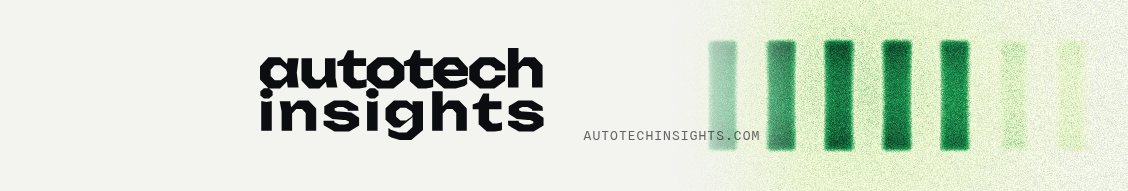
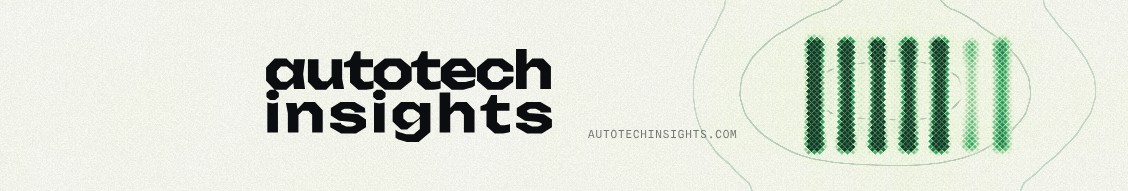
Rebuild the signal scan texture as a sensor screen with isotherms.
The scan now samples the heat field through a 45-degree diamond screen
and traces the halo with hairline isotherms, replacing blur plus grain.
Adds a layer anatomy block, isotherm read-outs, screen-drawn ramp
swatches and a Screen/Smooth toggle, and re-renders the ten
texture-bearing application pieces and three texture stills to match.

Claude-Session: https://claude.ai/code/session_01N9uR7imwXqJUC6zuiRqo7L

Changed region(s): [[0.2172, 0.0, 0.9619, 1.0], [0.8998, 0.9948, 0.9309, 1.0]]

diff --git a/brand/autotech-insights-guidelines/main.js b/brand/autotech-insights-guidelines/main.js
@@ -90,10 +90,21 @@ if (fw) {
   addEventListener('scroll', () => requestAnimationFrame(upd), { passive: true }); upd();
 }
 
+/* ---------- ramp swatches: the same 45 degree screen, drawn once on a 2D canvas ---------- */
+const STOPS = [[[11, 13, 16], [14, 59, 38], [31, 157, 85], [230, 244, 199], [.40, .74]], [[243, 243, 240], [230, 244, 199], [31, 157, 85], [14, 59, 38], [.34, .72]]];
+const rampCol = (mode, f) => { const [a, b, d, e, [s1, s2]] = STOPS[mode]; const mx = (p, q, t) => p.map((v, i) => Math.round(v + (q[i] - v) * t));
+  const c = f < s1 ? mx(a, b, f / s1) : f < s2 ? mx(b, d, (f - s1) / (s2 - s1)) : mx(d, e, (f - s2) / (1 - s2)); return 'rgb(' + c + ')'; };
+const drawRamp = cv => { const mode = +cv.dataset.ramp, r = cv.getBoundingClientRect(); if (!r.width) return; const dpr = Math.min(devicePixelRatio || 1, 2);
+  cv.width = Math.round(r.width * dpr); cv.height = Math.round(r.height * dpr); const x = cv.getContext('2d'), W = cv.width, H = cv.height, c = 5 * dpr * Math.SQRT2;
+  x.fillStyle = rampCol(mode, 0); x.fillRect(0, 0, W, H);
+  for (let j = -1; j * c / 2 < H + c; j++) for (let i = -1; i * c < W + c; i++) { const px = i * c + (j & 1) * c / 2, py = j * c / 2, v = Math.min(1, Math.max(0, px / W));
+    const h = c / 2 * Math.sqrt(Math.pow(v, .85)) * 1.02; if (h < .3) continue; x.fillStyle = rampCol(mode, Math.min(1, v * .96 + .04)); x.beginPath(); x.moveTo(px, py - h); x.lineTo(px + h, py); x.lineTo(px, py + h); x.lineTo(px - h, py); x.fill(); } };
+$$('canvas[data-ramp]').forEach(cv => { drawRamp(cv); new ResizeObserver(() => drawRamp(cv)).observe(cv); });
+
 /* ---------- WebGL signal scan ---------- */
 const VS = `attribute vec2 p;varying vec2 v;void main(){v=p*.5+.5;gl_Position=vec4(p,0.,1.);}`;
 const FS = `precision highp float;varying vec2 v;
-uniform sampler2D uN,uF;uniform vec2 uR,uNs,uFs,uM;uniform float uT,uMA,uMode,uG,uH,uBand;
+uniform sampler2D uN,uF,uW;uniform vec2 uR,uNs,uFs,uWs,uM;uniform float uT,uMA,uMode,uG,uH,uBand,uStyle,uCell,uLayer;
 float h(vec2 p){return fract(sin(dot(p,vec2(12.9898,78.233)))*43758.5453);}
 float n2(vec2 p){vec2 i=floor(p),f=fract(p);f=f*f*(3.-2.*f);return mix(mix(h(i),h(i+vec2(1,0)),f.x),mix(h(i+vec2(0,1)),h(i+vec2(1,1)),f.x),f.y);}
 float bl(sampler2D t,vec2 u,vec2 px){float s=0.;for(int i=-1;i<=1;i++)for(int j=-1;j<=1;j++){float w=(i==0&&j==0)?4.:(i==0||j==0)?2.:1.;s+=w*texture2D(t,u+vec2(float(i),float(j))*px).r;}return s/16.;}
@@ -103,30 +114,53 @@ vec3 ramp(float f){
   if(f<.40)return mix(a,b,f/.40); if(f<.74)return mix(b,d,(f-.40)/.34); return mix(d,e,(f-.74)/.26);}
  vec3 a=c(243.,243.,240.),b=c(230.,244.,199.),d=c(31.,157.,85.),e=c(14.,59.,38.);
  if(f<.34)return mix(a,b,f/.34); if(f<.72)return mix(b,d,(f-.34)/.38); return mix(d,e,(f-.72)/.28);}
-void main(){
- vec2 u=vec2(v.x,1.-v.y); float asp=uR.x/uR.y; vec2 q=vec2(u.x*asp,u.y);
+float gNear,gHalo;
+float heat(vec2 u){
+ float asp=uR.x/uR.y; vec2 q=vec2(u.x*asp,u.y);
  float near=bl(uN,u,1.4/uNs); float far=bl(uF,u,1.5/uFs); float vfar=bl(uF,u,5./uFs);
  float amb=n2(q*2.2+vec2(uT*.03,-uT*.02))*.6+n2(q*5.3-vec2(uT*.025,uT*.04))*.4;
- float rim=clamp(near-far*.85,0.,1.)*1.9;
+ float rim=clamp(near-far*.85,0.,1.)*1.9; float wide=bl(uW,u,1.2/uWs); gNear=near; gHalo=wide;
  vec2 m=vec2(uM.x*asp,uM.y); float d=distance(q,m); float glow=exp(-d*d/.045)*uMA;
  float bx=fract(uT*.045)*1.8-.4; float band=exp(-pow((u.x-bx-(u.y-.5)*.25)*7.,2.))*uBand;
- float f=.02+.11*uH*amb+.34*vfar-.06*near+.78*rim+(.30*glow+.16*band)*(.35+far*1.4)+.10*glow*uH;
- f+=(h(gl_FragCoord.xy+fract(uT*7.)*91.)-.5)*uG*2.;
- vec3 col=ramp(clamp(f,0.,1.))*(1.+(h(gl_FragCoord.xy*1.37+fract(uT*3.))-.5)*.07);
- gl_FragColor=vec4(col,1.);}`;
-let MARKS = null;
-const marksP = fetch('img/marks.json').then(r => r.json()).then(m => (MARKS = m));
+ return .02+.11*uH*amb+.30*vfar+.17*wide-.06*near+.78*rim+(.30*glow+.16*band)*(.35+far*1.4)+.10*glow*uH;}
+void main(){
+ vec2 u=vec2(v.x,1.-v.y); float f=heat(u); float nearv=gNear,halo=gHalo;
+ float gr=h(gl_FragCoord.xy*1.37+fract(uT*3.))-.5;
+ if(uStyle<.5){
+  f+=(h(gl_FragCoord.xy+fract(uT*7.)*91.)-.5)*uG*2.;
+  gl_FragColor=vec4(ramp(clamp(f,0.,1.))*(1.+gr*.07),1.); return;}
+ vec2 px=vec2(gl_FragCoord.x,uR.y-gl_FragCoord.y);
+ const float s=.70710678; mat2 R=mat2(s,-s,s,s); mat2 Ri=mat2(s,s,-s,s);
+ vec2 g=R*px/uCell; vec2 id=floor(g); vec2 cc=fract(g)-.5;
+ float fc=clamp(heat((Ri*((id+.5)*uCell))/uR),0.,1.);
+ float r=.53*sqrt(pow(clamp((fc-.022)/.74,0.,1.),.85));
+ float aa=1.1/uCell; float dotm=1.-smoothstep(r-aa,r+aa,max(abs(cc.x),abs(cc.y)));
+ vec3 bg=ramp(clamp(f*.40,0.,1.)); vec3 fg=ramp(clamp(fc*1.04+.19,0.,1.));
+ if(uLayer>1.5)bg=ramp(0.);
+ vec3 col=(uLayer>.5&&uLayer<1.5)?ramp(clamp(f*.62,0.,1.)):mix(bg,fg,dotm);
+#ifdef ISO
+ if(uLayer<1.5){float w=fwidth(halo)*.8+1e-5; float iso=0.;
+  iso=max(iso,1.-smoothstep(.5,1.,abs(halo-.52)/w));
+  iso=max(iso,(1.-smoothstep(.5,1.,abs(halo-.30)/w))*.85);
+  iso=max(iso,(1.-smoothstep(.5,1.,abs(halo-.14)/w))*.7);
+  iso=max(iso,(1.-smoothstep(.5,1.,abs(halo-.045)/w))*.55);
+  float off=1.-smoothstep(.02,.25,nearv);
+  col=mix(col,ramp(.93),iso*off*(uLayer>.5?.6:.34));}
+#endif
+ gl_FragColor=vec4(col*(1.+gr*(.025+uG*.55)),1.);}`;
+let MARKS = null; let ScanClass = null;
+const marksP = fetch('img/marks.json').then(r => r.json()).then(m => (MARKS = Object.assign(m, { bar: { b: [0, 0, 10, 100], d: 'M0 0H10V100H0Z' }, chev: { b: [0, 0, 60, 100], d: 'M0 0L22 0L60 50L22 100L0 100L38 50Z' } })));
 
 class Scan {
   constructor(cv, o) {
-    this.cv = cv; this.o = Object.assign({ mode: 0, grain: .06, heat: .55, band: 1 }, o);
-    const gl = cv.getContext('webgl', { antialias: false, premultipliedAlpha: false, preserveDrawingBuffer: true }); if (!gl) throw 0; this.gl = gl;
+    this.cv = cv; this.o = Object.assign({ mode: 0, grain: .06, heat: .55, band: 1, style: 1, cell: 5, layer: 0 }, o);
+    const gl = cv.getContext('webgl', { antialias: false, premultipliedAlpha: false, preserveDrawingBuffer: true }); if (!gl) throw 0; this.gl = gl; this.ext = gl.getExtension('OES_standard_derivatives');
     const sh = (t, s) => { const x = gl.createShader(t); gl.shaderSource(x, s); gl.compileShader(x); if (!gl.getShaderParameter(x, gl.COMPILE_STATUS)) throw gl.getShaderInfoLog(x); return x; };
-    const pr = gl.createProgram(); gl.attachShader(pr, sh(gl.VERTEX_SHADER, VS)); gl.attachShader(pr, sh(gl.FRAGMENT_SHADER, FS)); gl.linkProgram(pr); gl.useProgram(pr); this.pr = pr;
+    const pr = gl.createProgram(); gl.attachShader(pr, sh(gl.VERTEX_SHADER, VS)); gl.attachShader(pr, sh(gl.FRAGMENT_SHADER, (this.ext ? '#extension GL_OES_standard_derivatives : enable\n#define ISO\n' : '') + FS)); gl.linkProgram(pr); gl.useProgram(pr); this.pr = pr;
     const b = gl.createBuffer(); gl.bindBuffer(gl.ARRAY_BUFFER, b); gl.bufferData(gl.ARRAY_BUFFER, new Float32Array([-1, -1, 1, -1, -1, 1, 1, 1]), gl.STATIC_DRAW);
     const loc = gl.getAttribLocation(pr, 'p'); gl.enableVertexAttribArray(loc); gl.vertexAttribPointer(loc, 2, gl.FLOAT, false, 0, 0);
-    this.U = {}; ['uN', 'uF', 'uR', 'uNs', 'uFs', 'uM', 'uT', 'uMA', 'uMode', 'uG', 'uH', 'uBand'].forEach(k => this.U[k] = gl.getUniformLocation(pr, k));
-    this.tN = this.tex(); this.tF = this.tex();
+    this.U = {}; ['uN', 'uF', 'uW', 'uR', 'uNs', 'uFs', 'uWs', 'uM', 'uT', 'uMA', 'uMode', 'uG', 'uH', 'uBand', 'uStyle', 'uCell', 'uLayer'].forEach(k => this.U[k] = gl.getUniformLocation(pr, k));
+    this.tN = this.tex(); this.tF = this.tex(); this.tW = this.tex();
     this.m = [.7, .5]; this.mt = [.7, .5]; this.ma = 0; this.mat = 0; this.t = 0; this.vis = false;
     const pm = e => { const r = cv.getBoundingClientRect(); this.mt = [(e.clientX - r.left) / r.width, (e.clientY - r.top) / r.height]; this.mat = 1; if (reduced()) this.frame(); };
     (o.track || cv).addEventListener('pointermove', pm, { passive: true });
@@ -145,21 +179,26 @@ class Scan {
     const draw = (k) => { const s = Math.max(8, Math.round(W / k)), sh = Math.max(8, Math.round(H / k)); const c = document.createElement('canvas'); c.width = s; c.height = sh; const x = c.getContext('2d');
       x.fillStyle = '#000'; x.fillRect(0, 0, s, sh); x.fillStyle = '#fff';
       for (const p of this.o.place(W, H)) { const mk = MARKS[p.mark]; const [x0, y0, x1, y1] = mk.b; const sc = p.w / (x1 - x0) / k;
-        x.save(); x.translate(p.x / k, p.y / k); x.scale(sc, sc); x.translate(-x0, -y0); x.fill(new Path2D(mk.d)); x.restore(); }
+        x.save(); x.globalAlpha = p.a == null ? 1 : p.a; x.translate(p.x / k, p.y / k); x.scale(sc, sc); x.translate(-x0, -y0); x.fill(new Path2D(mk.d)); x.restore(); }
       return c; };
-    const n = draw(4), f = draw(18);
+    const n = draw(3), f = draw(18);
     gl.pixelStorei(gl.UNPACK_FLIP_Y_WEBGL, false);
     gl.activeTexture(gl.TEXTURE0); gl.bindTexture(gl.TEXTURE_2D, this.tN); gl.texImage2D(gl.TEXTURE_2D, 0, gl.RGBA, gl.RGBA, gl.UNSIGNED_BYTE, n);
     gl.activeTexture(gl.TEXTURE1); gl.bindTexture(gl.TEXTURE_2D, this.tF); gl.texImage2D(gl.TEXTURE_2D, 0, gl.RGBA, gl.RGBA, gl.UNSIGNED_BYTE, f);
-    this.ns = [n.width, n.height]; this.fs = [f.width, f.height];
+    /* a wide, smooth halo field: shrink the far mask twice, then grow it back in steps */
+    const rs = (src, w, h) => { const c = document.createElement('canvas'); c.width = Math.max(4, Math.round(w)); c.height = Math.max(4, Math.round(h)); const x = c.getContext('2d'); x.imageSmoothingEnabled = true; x.imageSmoothingQuality = 'high'; x.fillStyle = '#000'; x.fillRect(0, 0, c.width, c.height); x.drawImage(src, 0, 0, c.width, c.height); return c; };
+    let wd = rs(rs(rs(f, f.width / 2, f.height / 2), f.width / 4, f.height / 4), f.width / 7, f.height / 7);
+    wd = rs(rs(rs(wd, f.width / 4, f.height / 4), f.width / 2, f.height / 2), f.width, f.height);
+    gl.activeTexture(gl.TEXTURE2); gl.bindTexture(gl.TEXTURE_2D, this.tW); gl.texImage2D(gl.TEXTURE_2D, 0, gl.RGBA, gl.RGBA, gl.UNSIGNED_BYTE, wd);
+    this.ns = [n.width, n.height]; this.fs = [f.width, f.height]; this.ws = [wd.width, wd.height]; this.wd = wd; this.o.onMasks && this.o.onMasks(this);
   }
   frame() {
     const gl = this.gl, U = this.U; if (!this.ns) return;
     gl.viewport(0, 0, this.cv.width, this.cv.height);
-    gl.uniform1i(U.uN, 0); gl.uniform1i(U.uF, 1);
+    gl.uniform1i(U.uN, 0); gl.uniform1i(U.uF, 1); gl.uniform1i(U.uW, 2); gl.uniform2fv(U.uWs, this.ws);
     gl.uniform2f(U.uR, this.cv.width, this.cv.height); gl.uniform2fv(U.uNs, this.ns); gl.uniform2fv(U.uFs, this.fs);
     gl.uniform2fv(U.uM, this.m); gl.uniform1f(U.uMA, this.ma); gl.uniform1f(U.uT, this.t);
-    gl.uniform1f(U.uMode, this.o.mode); gl.uniform1f(U.uG, this.o.grain); gl.uniform1f(U.uH, this.o.heat); gl.uniform1f(U.uBand, reduced() ? 0 : this.o.band);
+    gl.uniform1f(U.uMode, this.o.mode); gl.uniform1f(U.uG, this.o.grain); gl.uniform1f(U.uH, this.o.heat); gl.uniform1f(U.uBand, reduced() ? 0 : this.o.band); gl.uniform1f(U.uStyle, this.o.style); gl.uniform1f(U.uCell, this.o.cell * this.cv.width / this.W); gl.uniform1f(U.uLayer, this.o.layer);
     gl.drawArrays(gl.TRIANGLE_STRIP, 0, 4);
   }
   loop() {
@@ -179,6 +218,8 @@ class Scan {
   set(o) { Object.assign(this.o, o); this.masks(); this.frame(); }
 }
 
+window.ATIScan = { ready: marksP, get Scan() { return ScanClass; }, get MARKS() { return MARKS; } };
+ScanClass = Scan;
 marksP.then(() => {
   try {
     const hero = $('#heroScan');
@@ -189,11 +230,17 @@ marksP.then(() => {
     const sc = $('#scanCanvas'); let mark = 'ati';
     const place = (W, H) => { const mk = MARKS[mark]; const [x0, y0, x1, y1] = mk.b; const ar = (y1 - y0) / (x1 - x0);
       let w = Math.min(W * (mark === 'jl' ? 0.42 : 0.74), H * 0.66 / ar); return [{ mark, w, x: (W - w) / 2, y: (H - w * ar) / 2 }]; };
-    const s = new Scan(sc, { place, heat: .55, grain: .06 }); s.resize();
+    /* isotherm read-outs: where the halo field crosses each level on the row through the middle */
+    const isoBox = $('#isoLabels');
+    const onMasks = t => { if (!isoBox || !t.wd) return; const w = t.wd.width, hh = t.wd.height, row = t.wd.getContext('2d').getImageData(0, Math.floor(hh / 2), w, 1).data;
+      isoBox.innerHTML = [.30, .14, .045].map(L => { let x = w - 1; while (x > 0 && row[x * 4] / 255 < L) x--; return x > 0 && x < w - 2 ? '<span style="left:' + ((x + .5) / w * 100).toFixed(2) + '%"><i></i>' + String(L).replace(/^0/, '') + '</span>' : ''; }).join(''); };
+    const s = new Scan(sc, { place, heat: .55, grain: .06, onMasks }); s.resize();
     const lab = $('#scanLabel'); let mode = 0;
-    const L = () => { lab.textContent = `${mark === 'wm' ? 'wordmark' : mark} · ${mode ? 'light' : 'dark'} ramp`; $('#scanStage').style.background = mode ? '#F3F3F0' : '#0B0D10'; $('#scanStage .hud').style.color = mode ? '#0B0D10' : '#fff'; };
+    const L = () => { if (isoBox) isoBox.dataset.mode = mode; lab.textContent = `${mark === 'wm' ? 'wordmark' : mark} · ${mode ? 'light' : 'dark'} ramp`; $('#scanStage').style.background = mode ? '#F3F3F0' : '#0B0D10'; $('#scanStage .hud').style.color = mode ? '#0B0D10' : '#fff'; };
     $$('[data-mark]').forEach(b => b.addEventListener('click', () => { mark = b.dataset.mark; $$('[data-mark]').forEach(x => x.setAttribute('aria-pressed', x === b)); s.set({}); L(); }));
     $$('[data-mode]').forEach(b => b.addEventListener('click', () => { mode = +b.dataset.mode; $$('[data-mode]').forEach(x => x.setAttribute('aria-pressed', x === b)); s.set({ mode }); L(); }));
+    $$('[data-style]').forEach(b => b.addEventListener('click', () => { $$('[data-style]').forEach(x => x.setAttribute('aria-pressed', x === b)); s.set({ style: +b.dataset.style }); }));
+    $$('canvas[data-layer]').forEach(cv => { const t = new Scan(cv, { layer: +cv.dataset.layer, band: 0, heat: .6, cell: 4, place: (W, H) => { const mk = MARKS.ati, ar = (mk.b[3] - mk.b[1]) / (mk.b[2] - mk.b[0]); const w = Math.min(W * .7, H * .56 / ar); return [{ mark: 'ati', w, x: (W - w) / 2, y: (H - w * ar) / 2 }]; } }); t.resize(); });
     $('#grainR')?.addEventListener('input', e => { s.o.grain = +e.target.value; s.frame(); });
     $('#heatR')?.addEventListener('input', e => { s.o.heat = +e.target.value; s.frame(); });
   } catch (e) { console.warn('WebGL scan unavailable', e); }

diff --git a/brand/autotech-insights-guidelines/index.html b/brand/autotech-insights-guidelines/index.html
@@ -150,21 +150,29 @@
 
 <section class="s dark" id="scan" data-n="05" data-t="Signal scan">
   <div class="wrap">
-    <header class="s-head grid"><p class="lab mono rv"><span class="n">05</span>Signal scan</p><h2 class="rv">Heat, read by a sensor.</h2><p class="intro rv rv-d1">The signature texture. A mark is read like a thermal scan: a rim of light on its edges, ambient heat around it and film grain over everything, mapped through one green ramp. Move the cursor across the stage.</p></header>
+    <header class="s-head grid"><p class="lab mono rv"><span class="n">05</span>Signal scan</p><h2 class="rv">Heat, read by a sensor.</h2><p class="intro rv rv-d1">The signature texture. A mark is read like a thermal scan: a rim of light on its edges and ambient heat around it, sampled through a 45° sensor grid and traced by isotherms, all mapped through one green ramp. Move the cursor across the stage.</p></header>
     <div class="scan-stage rv" id="scanStage"><canvas id="scanCanvas" aria-label="Interactive signal scan texture"></canvas>
+      <div class="iso mono tnum" id="isoLabels" aria-hidden="true"></div>
       <div class="hud mono"><span id="scanLabel">ati · dark ramp</span><span class="tnum" id="scanFps">Live</span></div></div>
     <div class="controls" role="group" aria-label="Scan controls">
       <div class="seg" role="group" aria-label="Mark"><button aria-pressed="true" data-mark="ati">ati</button><button aria-pressed="false" data-mark="jl">jl</button><button aria-pressed="false" data-mark="wm">Wordmark</button></div>
       <div class="seg" role="group" aria-label="Ramp"><button aria-pressed="true" data-mode="0">Dark</button><button aria-pressed="false" data-mode="1">Light</button></div>
+      <div class="seg" role="group" aria-label="Render"><button aria-pressed="true" data-style="1">Screen</button><button aria-pressed="false" data-style="0">Smooth</button></div>
     </div>
     <div class="ramps">
-      <div class="rv"><span class="mono mute">Dark ramp</span><div class="ramp" style="background:url(img/ramp-dark.jpg) center/cover;margin-top:10px"><div class="stops"><span style="left:2%">Ink 0</span><span style="left:40%">Deep 0.40</span><span style="left:74%">Signal 0.74</span><span style="left:96%">Pale 1</span></div></div></div>
-      <div class="rv rv-d1"><span class="mono mute">Light ramp</span><div class="ramp" style="background:url(img/ramp-light.jpg) center/cover;margin-top:10px"><div class="stops"><span style="left:3%">Paper 0</span><span style="left:34%">Pale 0.34</span><span style="left:72%">Signal 0.72</span><span style="left:96%">Deep 1</span></div></div></div>
+      <div class="rv"><span class="mono mute">Dark ramp</span><div class="ramp" style="margin-top:10px"><canvas data-ramp="0" aria-hidden="true"></canvas><div class="stops"><span style="left:2%">Ink 0</span><span style="left:40%">Deep 0.40</span><span style="left:74%">Signal 0.74</span><span style="left:96%">Pale 1</span></div></div></div>
+      <div class="rv rv-d1"><span class="mono mute">Light ramp</span><div class="ramp" style="margin-top:10px"><canvas data-ramp="1" aria-hidden="true"></canvas><div class="stops"><span style="left:3%">Paper 0</span><span style="left:34%">Pale 0.34</span><span style="left:72%">Signal 0.72</span><span style="left:96%">Deep 1</span></div></div></div>
     </div>
-    <ul class="rules" style="margin-top:72px">
+    <div class="sub" style="margin-top:88px"><h3>Anatomy</h3><span class="mono mute">Three layers · one ramp</span></div>
+    <div class="layers">
+      <figure class="rv"><div class="lay"><canvas data-layer="1" aria-label="Field layer"></canvas><span class="mono">L1</span></div><figcaption><b>Field</b>Rim light on the mark and ambient heat around it. Isotherms trace the halo at four fixed levels as hairlines.</figcaption></figure>
+      <figure class="rv rv-d1"><div class="lay"><canvas data-layer="2" aria-label="Screen layer"></canvas><span class="mono">L2</span></div><figcaption><b>Screen</b>One reading per cell on a 45° grid, the same angle as the facet cut. Each diamond’s area follows the heat, so the image holds in one colour.</figcaption></figure>
+      <figure class="rv rv-d2"><div class="lay"><canvas data-layer="0" aria-label="Composite"></canvas><span class="mono">L1 + L2 + grain</span></div><figcaption><b>Composite</b>Field under screen, with 3–6% film grain on top. This is the version that ships.</figcaption></figure>
+    </div>
+    <ul class="rules" style="margin-top:var(--g)">
       <li class="rv"><b>Scan the marks, not photos</b><p>The scan source is always a brand shape: ati, jl, the wordmark or data bars.</p></li>
       <li class="rv rv-d1"><b>One scan per surface</b><p>Pair it with flat ink or paper. Never stack two scans.</p></li>
-      <li class="rv rv-d2"><b>Grain 4–8%</b><p>Enough to feel printed, never enough to read as noise.</p></li>
+      <li class="rv rv-d2"><b>Fine screen, light grain</b><p>Cell = 1/288 of the long side (5 px at 1440). Grain stays at 3–6%: enough to feel printed, never enough to read as noise.</p></li>
     </ul>
     <div class="sub"><h3>Focus &amp; blur</h3><span class="mono mute">One thing in focus</span></div>
     <div class="focus-stage rv">

diff --git a/brand/autotech-insights-guidelines/styles.css b/brand/autotech-insights-guidelines/styles.css
@@ -507,3 +507,18 @@ section.s{padding:clamp(72px,9vw,140px) 0}
 .focus-stage .e2{filter:blur(60px);opacity:.5;transform:translate(.14em,.18em)}
 .focus-stage .focus-meter{left:18px;right:18px;bottom:16px}
 @media (max-width:760px){.focus-stage{aspect-ratio:4/3}.focus-stage .focus-meter{display:none}.focus-stage .focus-demo .cap{flex-direction:column;gap:4px}}
+
+/* ---------- v1.2: signal scan texture — sensor screen, isotherms, layer anatomy ---------- */
+.ramp canvas{position:absolute;inset:0;width:100%;height:100%}
+.scan-stage .iso{position:absolute;inset:0;pointer-events:none;color:var(--pale);font-size:10.5px;letter-spacing:.06em}
+.scan-stage .iso[data-mode="1"]{color:var(--deep)}
+.scan-stage .iso span{position:absolute;top:50%;transform:translate(9px,-50%);opacity:.8;white-space:nowrap}
+.scan-stage .iso span i{position:absolute;left:-12px;top:50%;width:6px;height:6px;margin-top:-3px;background:currentColor;clip-path:polygon(50% 0,100% 50%,50% 100%,0 50%)}
+.layers{display:grid;grid-template-columns:repeat(3,1fr);gap:var(--g)}
+.layers figure{margin:0}
+.layers .lay{position:relative;aspect-ratio:4/3;background:var(--ink);overflow:hidden;outline:1px solid var(--rule);outline-offset:-1px}
+.layers .lay canvas{position:absolute;inset:0;width:100%;height:100%}
+.layers .lay span{position:absolute;left:14px;top:12px;opacity:.7}
+.layers figcaption{margin-top:12px;padding-top:12px;border-top:1px solid var(--rule);font-size:15px;line-height:1.45;color:rgba(255,255,255,.74)}
+.layers figcaption b{display:block;font-weight:500;font-size:17px;letter-spacing:-.015em;margin-bottom:4px;color:var(--white)}
+@media (max-width:760px){.layers{grid-template-columns:1fr}.scan-stage .iso{display:none}}
